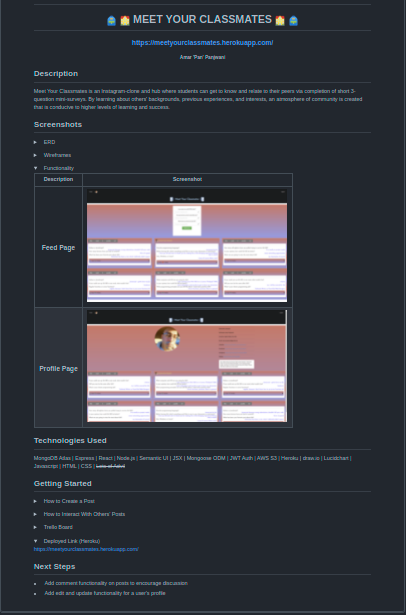
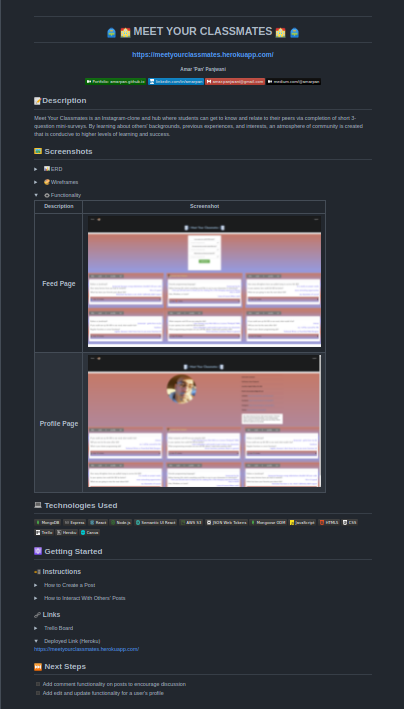
:school: update full good readme pic and markdown to v2

diff --git a/markdowns/GOOD-FULL-README.md b/markdowns/GOOD-FULL-README.md
@@ -1,0 +1,126 @@
+# <h1 align="center">:school_satchel: :school: MEET YOUR CLASSMATES :school: :school_satchel: </h1>
+ #### <h3 align="center">https://meetyourclassmates.herokuapp.com/</h3>
+ 
+ <h5 align="center">Amar 'Pan' Panjwani</h5>      
+ 
+ <div align="center">
+ <a href="https://amarpan.github.io" target="_blank">
+    <img src="https://img.shields.io/badge/-Portfolio:_amarpan.github.io-darkgreen?style=flat&logo=medium"
+ </a>
+    
+ <a href="https://www.linkedin.com/in/amarpan/" target="_blank">
+      <img src="https://img.shields.io/badge/-linkedin.com/in/amarpan-blue?style=flat&logo=Linkedin&logoColor=white">
+ </a> 
+    
+ <a href="mailto:amar.panjwani@gmail.com" target="_blank">
+    <img src="https://img.shields.io/badge/-amar.panjwani@gmail.com-c14438?style=flat&logo=Gmail&logoColor=white">
+ </a>
+    
+ <a href="https://medium.com/@amarpan">
+    <img src="https://img.shields.io/badge/-medium.com/@amarpan-black?style=flat&logo=medium">
+ </a>
+ </div>
+
+## 📝Description
+Meet Your Classmates is an Instagram-clone and hub where students can get to know and relate to their peers via completion of short 3-question mini-surveys. By learning about others' backgrounds, previous experiences, and interests, an atmosphere of community is created that is conducive to higher levels of learning and success. 
+
+## 🖼 Screenshots
+
+<details>
+ <summary> 📊 ERD</summary>
+ 
+ | Description | Screenshot |
+ |------------ | ------------|
+ | <h3 align="center">ERD</h3> | <img src="public/Screenshots/ERD.MYC.png" width="700">
+ 
+</details>
+
+<details>
+ <summary> 🎨 Wireframes</summary>
+ 
+ | Description | Screenshot |
+ |------------ | ------------|
+ | <h3 align="center">Home Page</h3> | <img src="public/Screenshots/Homepage.Wireframe.MYC.png" width="700">
+ | <h3 align="center">Profile Page</h3> | <img src="public/Screenshots/ProfilePage.Wireframe.MYC.png" width="700">
+ 
+ 
+</details>
+
+<details open>
+ <summary> ⚙ Functionality</summary>
+ 
+ | Description | Screenshot |
+ |------------ | ------------|
+ | <h3 align="center">Feed Page</h3> | <img src="public/Screenshots/FeedPage.png" width="700">
+ | <h3 align="center">Profile Page</h3> | <img src="public/Screenshots/ProfilePage.png" width="700">
+ 
+</details>
+
+
+
+ 
+</details>
+ 
+## 💻 Technologies Used
+ 
+![MongoDB Atlas](https://img.shields.io/badge/-MongoDB-333?style=flat&logo=mongodb)
+![Express](https://img.shields.io/badge/-Express-333?style=flat&logo=express)
+![React](https://img.shields.io/badge/-React-333?style=flat&logo=react) 
+![Node](https://img.shields.io/badge/-Node.js-333?style=flat&logo=node.js)
+![SemanticUIReact](https://img.shields.io/badge/-Semantic%20UI%20React-333?style=flat&logo=semanticuireact)
+![AWS S3](https://img.shields.io/badge/-AWS_S3-333?style=flat&logo=amazons3)
+![JWT](https://img.shields.io/badge/-JSON_Web_Tokens-333?style=flat&logo=jsonwebtokens)
+![Mongoose ODM](https://img.shields.io/badge/-Mongoose_ODM-333?style=flat&logo=mongodb)
+![JavaScript](https://img.shields.io/badge/-JavaScript-333?style=flat&logo=javascript) 
+![HTML5](https://img.shields.io/badge/-HTML5-333?style=flat&logo=html5)
+![CSS3](https://img.shields.io/badge/-CSS-333?style=flat&logo=css3)
+![Trello](https://img.shields.io/badge/-Trello-333?style=flat&logo=trello) 
+![Heroku](https://img.shields.io/badge/-Heroku-333?style=flat&logo=heroku)
+![Canva](https://img.shields.io/badge/-Canva-333?style=flat&logo=canva)
+
+## ⚛ Getting Started
+### 📲 Instructions
+<details>
+<summary>How to Create a Post</summary>
+ 
+1. Type in your answers to each of the 3 randomly-generated mini-survey questions. 
+ 
+2. Click on "Add Survey" to post your responses so others may see them.
+ 
+3. Click on the "X" in the bottom-right corner to delete a post. 
+</details>
+
+<details>
+<summary>How to Interact With Others' Posts</summary>
+ 
+1.  Posts may be "liked" or "disliked" by clicking on the thumbs up or down button on their card.
+ 
+2. To reveal the author of a post, hover over the "Who could it possibly be?" button.
+ 
+3. To see more posts by the same user, click on the revealed username and profile picture.
+
+</details>
+
+### 🔗 Links
+
+<details>
+<summary>Trello Board</summary>
+<a href="https://trello.com/b/x4ViComX/meet-your-classmates-project-4">https://trello.com/b/x4ViComX/meet-your-classmates-project-4</a>
+</details>
+
+
+<details open>
+<summary>Deployed Link (Heroku)</summary>
+<a href="https://meetyourclassmates.herokuapp.com/">https://meetyourclassmates.herokuapp.com/</a>
+</details>
+
+<!-- #### [Pitch-Deck](https://docs.google.com/presentation/d/1h2wwLEPFEW8QYUVp-uX2hn5afxvE5GVZatkmLsMW-J4/edit?usp=sharing)
+
+#### [Heroku Deployment](https://gatracker.herokuapp.com/) -->
+
+## ⏭ Next Steps
+- [ ] Add comment functionality on posts to encourage discussion
+- [ ] Add edit and update functionality for a user's profile
+
+
+
